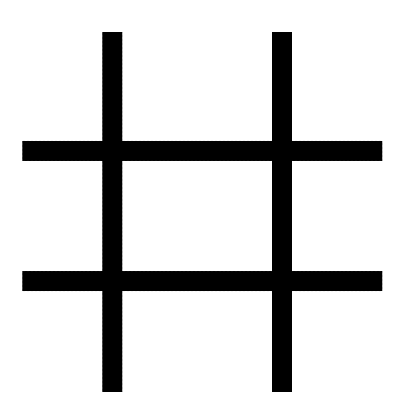
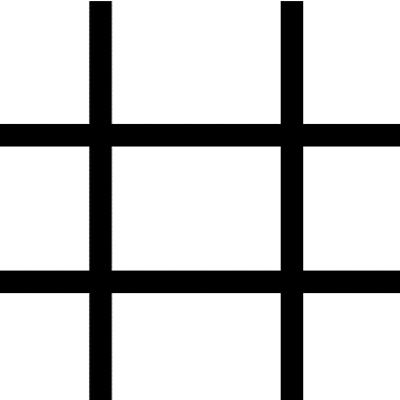
Recreated graphic with css grid, added divs to hold game pieces

Changed region(s): [[0.0, 0.0, 1.0, 0.69], [0.0, 0.66, 1.0, 1.0]]

diff --git a/index.html b/index.html
@@ -11,7 +11,17 @@
     <body>
         <div class="container">
             <div class="gameboard">
-                <img src="./assets/grid.png" alt="grid">
+                <div class="game-pieces">
+                    <div class="square" data-index="0"></div>
+                    <div class="square" data-index="1"></div>
+                    <div class="square" data-index="2"></div>
+                    <div class="square" data-index="3"></div>
+                    <div class="square" data-index="4"></div>
+                    <div class="square" data-index="5"></div>
+                    <div class="square" data-index="6"></div>
+                    <div class="square" data-index="7"></div>
+                    <div class="square" data-index="8"></div>
+                </div>
             </div>
         </div>
 

diff --git a/style.css b/style.css
@@ -35,5 +35,20 @@ body{
     display: flex;
     justify-content: center;
     align-items: center;
-    padding-bottom: 25px;
+    padding: 15px;
+}
+
+.game-pieces {
+    width: 400px;
+    height: 400px;
+    display: grid;
+    grid-template-columns: repeat(3, auto);
+    grid-template-rows: repeat(3, auto);
+    gap: 15px;
+    background-color: black;
+}
+
+.game-pieces > div {
+    background-color: white;
+    padding: 10px;
 }
